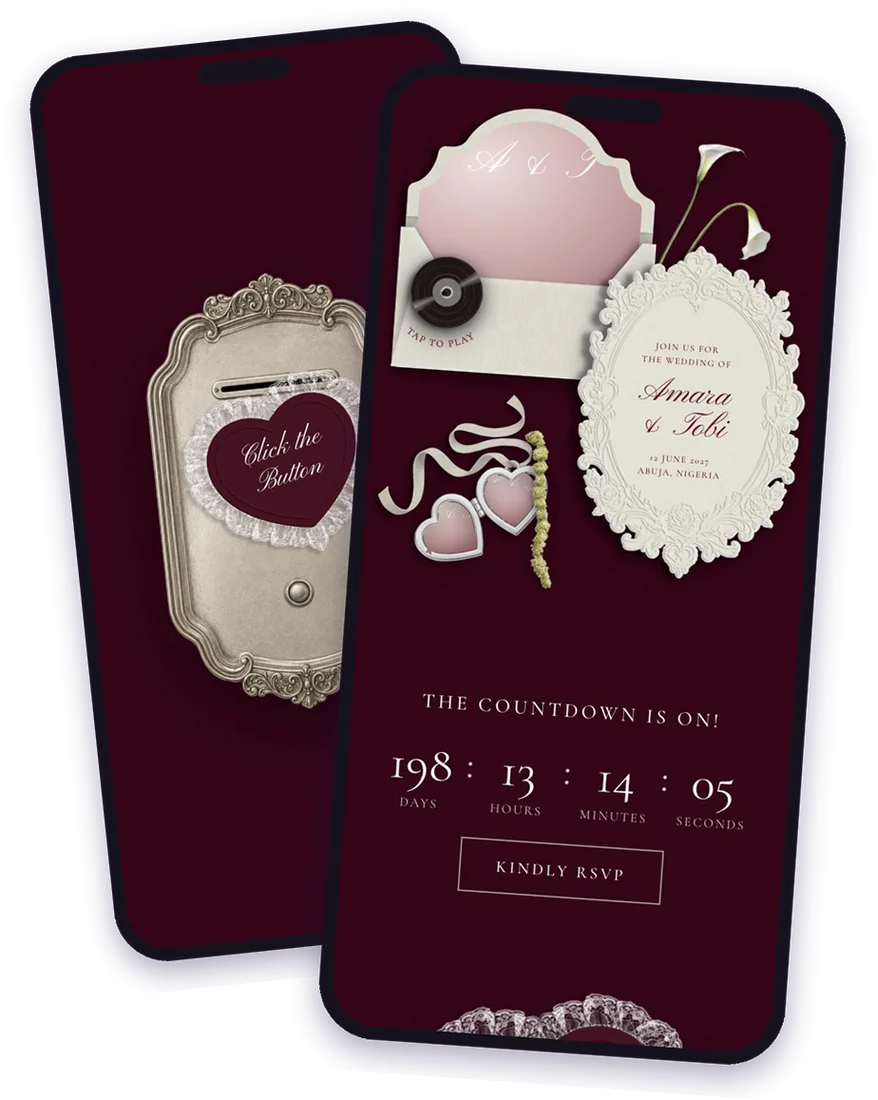
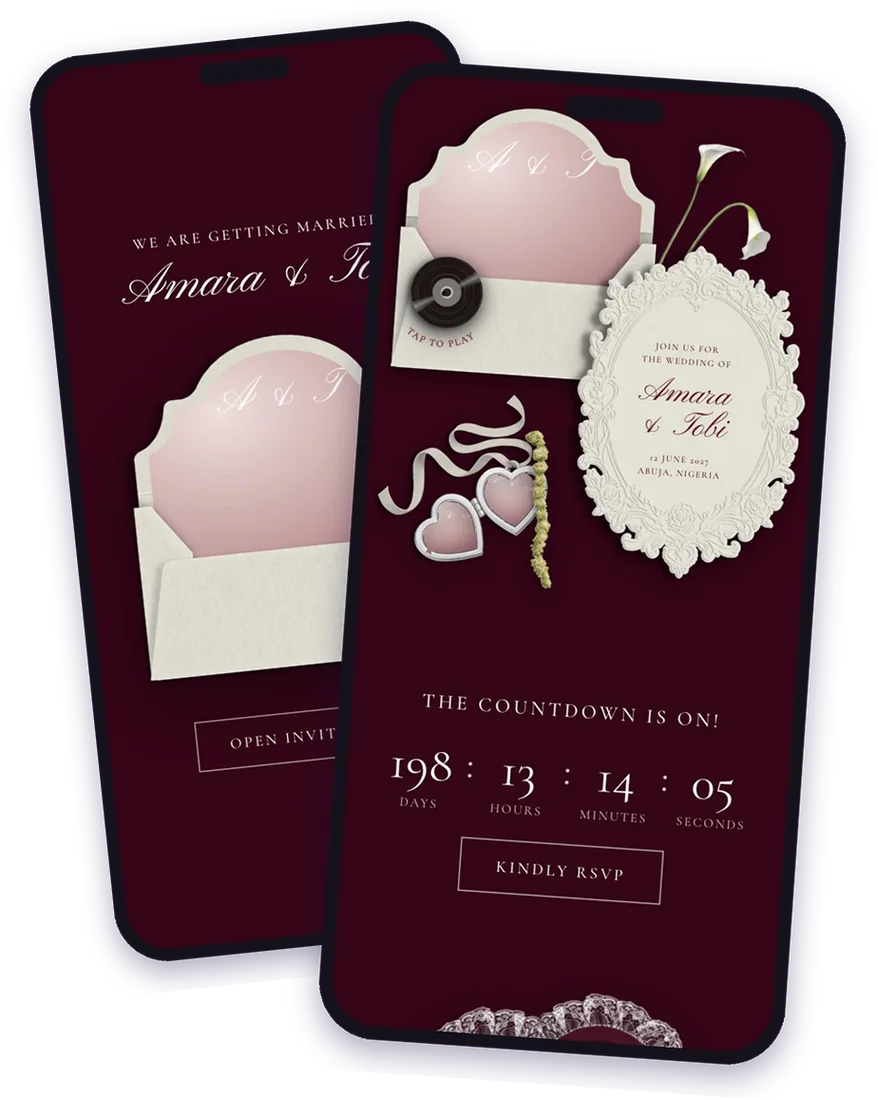
Invitations: switch off the doorbell opening on both designs
The doorbell markup stays in both pages inside an HTML comment, so it can
come back by removing the comment. Without it, the envelope (Luxe) or
the photo booth (Black Luxe) starts as soon as the invitation opens.

The shop no longer mentions or shows the doorbell: new wording, the
doorbell pictures dropped from the galleries, the Luxe tile rebuilt with
the envelope screen, and "What's included" now describes each design's
own opening.

Changed region(s): [[0.123, 0.2164, 0.4305, 0.7109], [0.3383, 0.1855, 0.4305, 0.2473], [0.246, 0.1855, 0.3075, 0.2164]]

diff --git a/showandtell-website/assets/catalog.js b/showandtell-website/assets/catalog.js
@@ -209,12 +209,12 @@ var INVITATIONS = [
     occasion: 'Wedding',
     priceKey: 'digitalInvitation',
     live: 'invitation.html',
-    tagline: 'Guests ring a silver doorbell, watch the envelope open, and read your invitation while your song plays.',
-    desc: 'A wedding invitation you send by link. It opens with a silver doorbell and an envelope with your photo inside, then everything your guests need on one page: the date and a live countdown, the venue with directions, the order of the day, your story, where to stay, your gift list, the dress code and the RSVP form. Deep wine and ivory, with lace, calla lilies and a spinning record that plays your song.',
+    tagline: 'Guests watch an envelope open with your photo inside, then read your invitation while your song plays.',
+    opening: 'An envelope that opens, with your photo sliding out',
+    desc: 'A wedding invitation you send by link. It opens with an envelope and your photo inside, then everything your guests need on one page: the date and a live countdown, the venue with directions, the order of the day, your story, where to stay, your gift list, the dress code and the RSVP form. Deep wine and ivory, with lace, calla lilies and a spinning record that plays your song.',
     img: 'images/invitations/shop/luxe-wedding-tile.webp',
     gallery: [
-      { src: 'images/invitations/shop/luxe-wedding-tile.webp', alt: 'Two phones showing the Luxe Wedding invitation: the doorbell, and the first page with the envelope, oval card and countdown' },
-      { src: 'images/invitations/shop/luxe-wedding-1-doorbell.webp', alt: 'A silver doorbell with a lace heart that says Click the Button' },
+      { src: 'images/invitations/shop/luxe-wedding-tile.webp', alt: 'Two phones showing the Luxe Wedding invitation: the envelope opening, and the first page with the oval card and countdown' },
       { src: 'images/invitations/shop/luxe-wedding-2-envelope.webp', alt: 'The envelope open, with the couple\'s names above it' },
       { src: 'images/invitations/shop/luxe-wedding-3-invitation.webp', alt: 'The first page: the envelope with a record, the oval card and the countdown' },
       { src: 'images/invitations/shop/luxe-wedding-4-details.webp', alt: 'The details: date, ceremony and reception, with Maps and calendar buttons' },
@@ -227,12 +227,12 @@ var INVITATIONS = [
     occasion: 'Wedding',
     priceKey: 'digitalInvitation',
     live: 'invitation-black.html',
-    tagline: 'Guests ring a silver doorbell and a photo booth prints a strip of your photos, then your invitation opens in black, silver and ivory.',
-    desc: 'The Luxe Wedding invitation in black, silver and ivory, with a photo booth opening. Guests press the bell on a silver doorbell, then watch a strip of your photos print out of the slot with your date written underneath. Inside, everything is on one page: your photos in the envelope, a locket and polaroids, a record that plays your song, the date and a live countdown, the venue with directions, the order of the day, your story, where to stay, your gift list, the dress code and the RSVP form.',
+    tagline: 'A photo booth prints a strip of your photos, then your invitation opens in black, silver and ivory.',
+    opening: 'A photo booth that prints a strip of your photos, with your date written underneath',
+    desc: 'The Luxe Wedding invitation in black, silver and ivory, with a photo booth opening. Guests watch a strip of your photos print out of a slot in a silver plate, with your date written underneath. Inside, everything is on one page: your photos in the envelope, a locket and polaroids, a record that plays your song, the date and a live countdown, the venue with directions, the order of the day, your story, where to stay, your gift list, the dress code and the RSVP form.',
     img: 'images/invitations/shop/black-luxe-wedding-tile.webp',
     gallery: [
       { src: 'images/invitations/shop/black-luxe-wedding-tile.webp', alt: 'Two phones showing the Black Luxe Wedding invitation: the photo booth strip, and the first page with the couple\'s photo' },
-      { src: 'images/invitations/shop/black-luxe-wedding-1-doorbell.webp', alt: 'A silver doorbell with an ivory lace heart that says Click the Button' },
       { src: 'images/invitations/shop/black-luxe-wedding-2-photobooth.webp', alt: 'A strip of three photos printing out of a slot in a silver plate, with the date written underneath' },
       { src: 'images/invitations/shop/black-luxe-wedding-3-invitation.webp', alt: 'The first page: the couple\'s photo in the envelope, a record, the oval card and the countdown' },
       { src: 'images/invitations/shop/black-luxe-wedding-4-details.webp', alt: 'The details under an ivory lace heart: date, ceremony and reception' },

diff --git a/showandtell-website/assets/invitations.js b/showandtell-website/assets/invitations.js
@@ -304,27 +304,30 @@ function invDraw(inv, root) {
   };
 }
 
-// The doorbell, then the second screen: the envelope opening, or the photo booth printing a strip.
+// The doorbell (if the page has one), then the second screen: the envelope opening, or the photo
+// booth printing a strip. Without a doorbell the second screen starts as soon as the page opens.
 // after() runs once the guest taps "Open invitation".
 function invOpen(inv, bellScreen, welcome, after) {
   var still = window.matchMedia && window.matchMedia('(prefers-reduced-motion: reduce)').matches;
-  var bell = bellScreen.querySelector('.lx-bell'), env = welcome.querySelector('.lx-env'), booth = welcome.querySelector('.lx-booth');
+  var env = welcome.querySelector('.lx-env'), booth = welcome.querySelector('.lx-booth');
   document.body.style.overflow = 'hidden';
-  bell.addEventListener('click', function () {
+  function play() {
+    if (env) {
+      setTimeout(function () { env.classList.add('open'); }, still ? 0 : 700);
+      setTimeout(function () { env.classList.add('out'); }, still ? 0 : 1600);
+      setTimeout(function () { welcome.classList.add('ready'); }, still ? 0 : 2500);
+    }
+    if (booth) {
+      setTimeout(function () { booth.classList.add('printing'); }, still ? 0 : 700);
+      setTimeout(function () { welcome.classList.add('ready'); }, still ? 0 : 3600);
+    }
+  }
+  var bell = bellScreen && bellScreen.querySelector('.lx-bell');
+  if (!bell) play();
+  else bell.addEventListener('click', function () {
     if (bell.classList.contains('pressed')) return;
     bell.classList.add('pressed');
-    setTimeout(function () {
-      bellScreen.classList.add('gone');
-      if (env) {
-        setTimeout(function () { env.classList.add('open'); }, still ? 0 : 700);
-        setTimeout(function () { env.classList.add('out'); }, still ? 0 : 1600);
-        setTimeout(function () { welcome.classList.add('ready'); }, still ? 0 : 2500);
-      }
-      if (booth) {
-        setTimeout(function () { booth.classList.add('printing'); }, still ? 0 : 700);
-        setTimeout(function () { welcome.classList.add('ready'); }, still ? 0 : 3600);
-      }
-    }, still ? 0 : 650);
+    setTimeout(function () { bellScreen.classList.add('gone'); play(); }, still ? 0 : 650);
   });
   welcome.querySelector('[data-open]').addEventListener('click', function () {
     document.body.style.overflow = '';

diff --git a/showandtell-website/invitation-black.html b/showandtell-website/invitation-black.html
@@ -19,12 +19,12 @@
 <link rel="preconnect" href="https://fonts.gstatic.com" crossorigin>
 <link rel="stylesheet" href="https://fonts.googleapis.com/css2?family=Caveat:wght@500&family=Cormorant+Garamond:ital,wght@0,400;0,500;1,400;1,500&display=swap">
 <link rel="stylesheet" href="assets/invitations.css">
-<link rel="preload" as="image" href="images/invitations/luxe-black/doorbell.webp">
 </head>
 <body class="lx lx-black">
 <!-- A sample wedding invitation in Black Luxe: the Luxe invitation in black, silver and ivory, opening
      with a photo booth that prints a strip of the couple's photos. Details live in SAMPLE below; replies are not saved. -->
 
+<!-- The doorbell opening, switched off for now. To bring it back, remove this comment around it.
 <div class="lx-screen" id="lx-bell">
   <button class="lx-bell" type="button" aria-label="Tap to open your invitation">
     <img src="images/invitations/luxe-black/doorbell.webp" alt="" draggable="false">
@@ -32,6 +32,7 @@
     <span class="lx-bell-btn"></span>
   </button>
 </div>
+-->
 
 <div class="lx-screen lx-welcome" id="lx-welcome">
   <p class="lx-caps">We are getting married!</p>
@@ -98,7 +99,7 @@ var SAMPLE = {
   document.getElementById('lx-names').textContent = inv.names.join(' & ');
   document.getElementById('lx-booth-out').innerHTML = lxBoothStrip(inv);
   var show = invDraw(inv, main);
-  invOpen(inv, document.getElementById('lx-bell'), document.getElementById('lx-welcome'), function () {
+  invOpen(inv, document.getElementById('lx-bell'), /* null while the doorbell is switched off */ document.getElementById('lx-welcome'), function () {
     main.hidden = false; show();
   });
 })();

diff --git a/showandtell-website/invitation.html b/showandtell-website/invitation.html
@@ -19,12 +19,12 @@
 <link rel="preconnect" href="https://fonts.gstatic.com" crossorigin>
 <link rel="stylesheet" href="https://fonts.googleapis.com/css2?family=Cormorant+Garamond:ital,wght@0,400;0,500;1,400;1,500&display=swap">
 <link rel="stylesheet" href="assets/invitations.css">
-<link rel="preload" as="image" href="images/invitations/luxe/doorbell.webp">
 </head>
 <body class="lx">
 <!-- A sample wedding invitation in the Luxe template. For now the details live in SAMPLE below
      and replies are not saved. Later, invitation.html?id=... will fetch a host's own invitation. -->
 
+<!-- The doorbell opening, switched off for now. To bring it back, remove this comment around it.
 <div class="lx-screen" id="lx-bell">
   <button class="lx-bell" type="button" aria-label="Tap to open your invitation">
     <img src="images/invitations/luxe/doorbell.webp" alt="" draggable="false">
@@ -32,6 +32,7 @@
     <span class="lx-bell-btn"></span>
   </button>
 </div>
+-->
 
 <div class="lx-screen lx-welcome" id="lx-welcome">
   <p class="lx-caps">We are getting married!</p>
@@ -94,7 +95,7 @@ var SAMPLE = {
   document.getElementById('lx-names').textContent = inv.names.join(' & ');
   document.getElementById('lx-letter').innerHTML = lxPhoto(inv, inv.photos.cover);
   var show = invDraw(inv, main);
-  invOpen(inv, document.getElementById('lx-bell'), document.getElementById('lx-welcome'), function () {
+  invOpen(inv, document.getElementById('lx-bell'), /* null while the doorbell is switched off */ document.getElementById('lx-welcome'), function () {
     main.hidden = false; show();
   });
 })();

diff --git a/showandtell-website/digital-invitation.html b/showandtell-website/digital-invitation.html
@@ -183,7 +183,7 @@ var ALSO_LIKE = ['card-11', 'puzzle-owambe-wahala', 'p19:patch'];
       +     '<div class="iv-acc">'
       +       '<details open><summary>Description</summary><div class="iv-acc-body"><p>' + esc(iv.desc) + '</p></div></details>'
       +       '<details><summary>What’s included</summary><div class="iv-acc-body"><dl class="iv-spec">'
-      +         '<dt>Opening</dt><dd>A silver doorbell, then an envelope that opens with your photo inside</dd>'
+      +         '<dt>Opening</dt><dd>' + esc(iv.opening || '') + '</dd>'
       +         '<dt>Music</dt><dd>A record on the envelope that plays your song</dd>'
       +         '<dt>Date</dt><dd>A live countdown, with Add to calendar for Google, Apple and Outlook</dd>'
       +         '<dt>Venue</dt><dd>Ceremony and reception details, with Open in Maps</dd>'

diff --git a/showandtell-website/README.md b/showandtell-website/README.md
@@ -81,7 +81,8 @@ Invitations sent by link, starting with **Luxe Wedding**.
 
 - **Shop pages:** `digital-invitations.html` lists the designs (COLLECTIONS `'digital-invitations'` in `assets/catalog.js`), and each one opens `digital-invitation.html?design=<id>`. The designs' names, text and pictures are in `INVITATIONS` in `assets/catalog.js`. Set the price as `digitalInvitation` in `assets/prices.js`. Ordering works like the other products: a WhatsApp message, or "Available soon" while `SHOP_OPEN` is false.
 - **The sample guests see:** `invitation.html`, drawn by `assets/invitations.js` and `assets/invitations.css` from the `SAMPLE` details in the page. The art is in `images/invitations/luxe/`, trimmed web copies of the purchased art. The originals stay in `images/invitations/new-art/` and are never committed. The sample song is a music-box Pachelbel's Canon made for it.
-- **Black Luxe Wedding:** `invitation-black.html` uses the same code with `template: 'luxe-black'` (the body class `lx-black` switches the colours in `assets/invitations.css`). Its own art is in `images/invitations/luxe-black/`: the silver doorbell, the ivory lace heart (swapped in with `art: { heart: ... }`), the photo booth plate and strip, and the sample couple photos (made with ChatGPT for the sample). After the doorbell, a photo booth prints a strip of three photos with the date written underneath (`lxBoothStrip` in `assets/invitations.js`), in place of the envelope opening.
+- **Black Luxe Wedding:** `invitation-black.html` uses the same code with `template: 'luxe-black'` (the body class `lx-black` switches the colours in `assets/invitations.css`). Its own art is in `images/invitations/luxe-black/`: the silver doorbell, the ivory lace heart (swapped in with `art: { heart: ... }`), the photo booth plate and strip, and the sample couple photos (made with ChatGPT for the sample). A photo booth prints a strip of three photos with the date written underneath (`lxBoothStrip` in `assets/invitations.js`), in place of the envelope opening.
+- **The doorbell opening is switched off.** Its markup is still in `invitation.html` and `invitation-black.html`, inside an HTML comment. Remove the comment around it to bring it back; `invOpen` plays the doorbell first when it's there, and otherwise starts the envelope or photo booth as soon as the page opens.
 - **Not built yet:** saving RSVPs, a host's private guest list, and hosts making their own invitation. For now, each invitation is set up by hand.
 - **Shop pictures:** `images/invitations/shop/` holds phone screenshots of the sample. Make new ones if the design changes.
 
